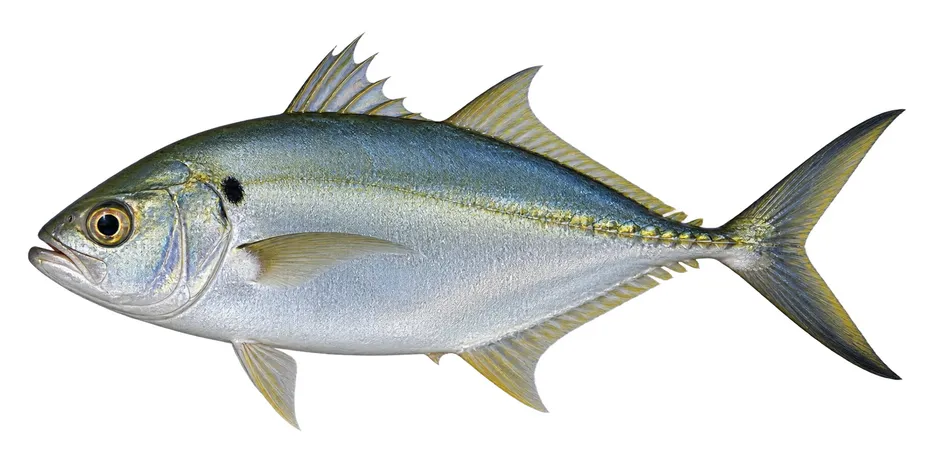
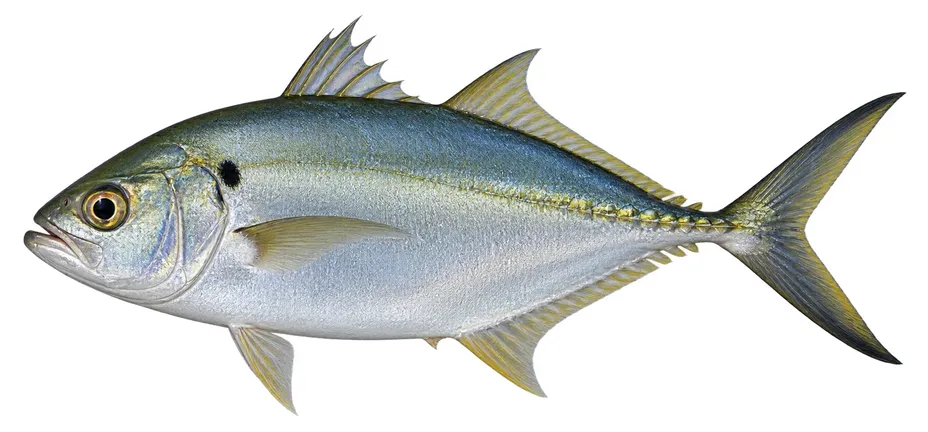
Fish pictures cropped to the fish; picture cache follows the list version

Changed region(s): [[0.0, 0.0301, 1.0, 0.963]]

diff --git a/sw.js b/sw.js
@@ -1,8 +1,8 @@
 // מצפן הדייג — עבודה גם בלי רשת: קבצי האפליקציה מהמטמון, התחזית מהרשת (ואם אין — מהמטמון).
-const VERSION = "2.2.4";
+const VERSION = "2.2.5";
 const CACHE = `fishing-compass-${VERSION}`;
-const SHELL = ["./", "index.html", "styles.css?v=4", "fixes.css?v=24", "compass.css?v=9", "theme.css?v=6", "vendor/suncalc.js", "data/species.js?v=4", "data/fish-info.js?v=1", "data/beach-features.js?v=1", "fish-art.js?v=2", "data/fish-photos.js?v=5", "data/beaches.js?v=3",
-  "engine.js?v=3", "forecast.js?v=3", "script.js?v=19", "bubbles.js?v=3", "compass.js?v=18", "manifest.webmanifest?v=4", "vendor/leaflet/leaflet.js", "vendor/leaflet/leaflet.css", "data/zones/hashmal.json?v=3"];
+const SHELL = ["./", "index.html", "styles.css?v=4", "fixes.css?v=24", "compass.css?v=9", "theme.css?v=6", "vendor/suncalc.js", "data/species.js?v=4", "data/fish-info.js?v=1", "data/beach-features.js?v=1", "fish-art.js?v=2", "data/fish-photos.js?v=6", "data/beaches.js?v=3",
+  "engine.js?v=3", "forecast.js?v=3", "script.js?v=19", "bubbles.js?v=3", "compass.js?v=19", "manifest.webmanifest?v=4", "vendor/leaflet/leaflet.js", "vendor/leaflet/leaflet.css", "data/zones/hashmal.json?v=3"];
 self.addEventListener("install", e => { e.waitUntil(caches.open(CACHE).then(c => c.addAll(SHELL)).then(() => self.skipWaiting())); });
 self.addEventListener("activate", e => { e.waitUntil(caches.keys().then(k => Promise.all(k.filter(x => x !== CACHE).map(x => caches.delete(x)))).then(() => self.clients.claim())); });
 self.addEventListener("fetch", e => {

diff --git a/compass.js b/compass.js
@@ -420,7 +420,7 @@ function lureCard(code) {
 // realistic picture when there is one (assets/fish/<id>.webp, listed in data/fish-photos.js), otherwise our illustration
 const art = (id, cls = "") => {
   const sp = SPECIES.find(s => s.id === id), alt = sp ? esc(sp.name) : "";
-  if ((window.FISH_PHOTOS || []).includes(id)) return `<div class="fish-pic is-photo ${cls}"><img src="assets/fish/${id}.webp?v=1" alt="${alt}" loading="lazy" decoding="async"></div>`;
+  if ((window.FISH_PHOTOS || []).includes(id)) return `<div class="fish-pic is-photo ${cls}"><img src="assets/fish/${id}.webp?v=${window.FISH_PHOTOS_V || 1}" alt="${alt}" loading="lazy" decoding="async"></div>`;
   return window.FISH_ART && FISH_ART.has(id) ? `<div class="fish-pic ${cls}">${FISH_ART.fish(id)}</div>` : "";
 };
 function lureKitHtml(sp) {

diff --git a/index.html b/index.html
@@ -27,13 +27,13 @@
 <script src="data/fish-info.js?v=1" defer></script>
 <script src="data/beach-features.js?v=1" defer></script>
 <script src="fish-art.js?v=2" defer></script>
-<script src="data/fish-photos.js?v=5" defer></script>
+<script src="data/fish-photos.js?v=6" defer></script>
 <script src="data/beaches.js?v=3" defer></script>
 <script src="engine.js?v=3" defer></script>
 <script src="forecast.js?v=3" defer></script>
 <script src="script.js?v=19" defer></script>
 <script src="bubbles.js?v=3" defer></script>
-<script src="compass.js?v=18" defer></script>
+<script src="compass.js?v=19" defer></script>
 </head>
 <body>
 <a class="skip-link" href="#app">דלג לתוכן</a>
